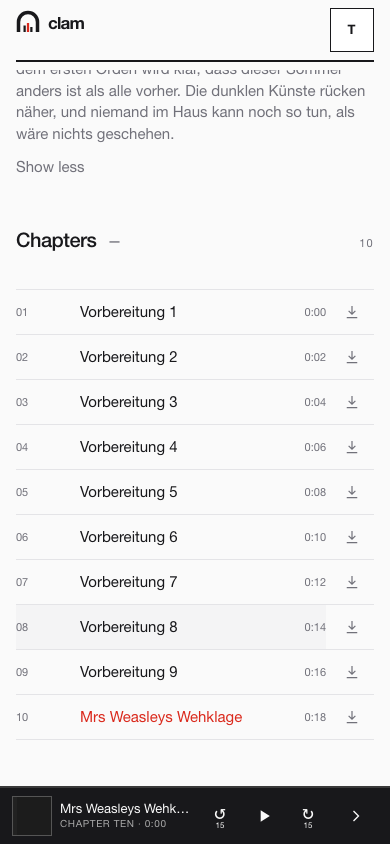
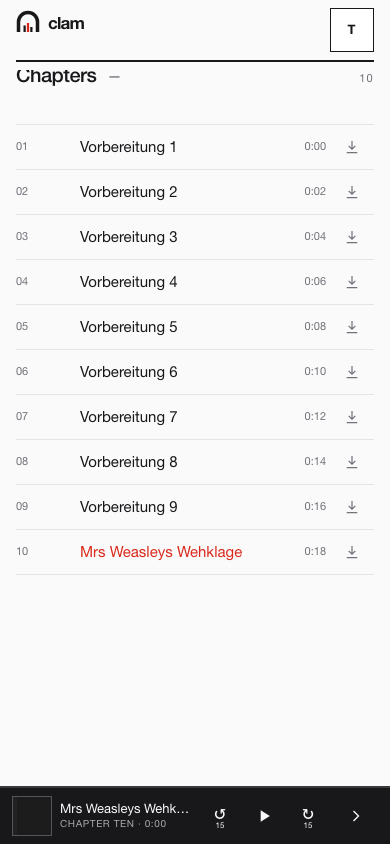
Pin chapters and expand transcript surface

diff --git a/clam-web/src/pages/Play.tsx b/clam-web/src/pages/Play.tsx
@@ -24,7 +24,7 @@ export function Play({ book, search }: PlayProps) {
   const [drag, setDrag] = useState<number | null>(null)
   const seekTimer = useRef<number | null>(null)
   const dialogList = useRef<HTMLDivElement>(null)
-  const currentCue = useRef<HTMLButtonElement>(null)
+  const currentCue = useRef<HTMLParagraphElement>(null)
 
   const chapterParam = Number(search.get('chapter'))
   const autoplay = search.get('autoplay') === '1'
@@ -94,30 +94,32 @@ export function Play({ book, search }: PlayProps) {
 
   return (
     <main className="mx-auto flex min-h-dvh w-full max-w-[calc(34rem+32px)] flex-col px-4 pt-[calc(env(safe-area-inset-top)+8px)] pb-[calc(env(safe-area-inset-bottom)+16px)] max-[680px]:pb-[calc(env(safe-area-inset-bottom)+8px)]">
-      <header className="grid grid-cols-[44px_1fr_44px] items-center gap-2 border-b-2 border-rule pb-2">
+      <header className="flex items-center justify-between gap-4 border-b-2 border-rule pb-2">
         <a className="grid h-11 w-11 place-items-center no-underline" href={`/book/${book.id}`} aria-label="Back to book">
           <BackIcon className="h-[22px] w-[22px]" />
         </a>
-        <button
-          type="button"
-          className={`min-h-11 p-0 text-center text-micro uppercase tracking-[0.12em] ${player.sleep ? 'font-medium text-ink' : 'text-muted'}`}
-          aria-label="Sleep timer"
-          onClick={() => setSleepOpen(true)}
-        >
-          {sleepLabel}
-        </button>
-        <button
-          type="button"
-          className="min-h-11 p-0 text-right text-micro uppercase tracking-[0.08em] text-muted"
-          aria-label={`Playback speed ${speedLabel}`}
-          title="Playback speed"
-          onClick={player.cycleSpeed}
-        >
-          {speedLabel}
-        </button>
+        <div className="flex items-baseline gap-4">
+          <button
+            type="button"
+            className={`min-h-11 p-0 text-micro uppercase tracking-[0.12em] ${player.sleep ? 'font-medium text-ink' : 'text-muted'}`}
+            aria-label="Sleep timer"
+            onClick={() => setSleepOpen(true)}
+          >
+            {sleepLabel}
+          </button>
+          <button
+            type="button"
+            className="min-h-11 p-0 text-micro uppercase tracking-[0.08em] text-muted"
+            aria-label={`Playback speed ${speedLabel}`}
+            title="Playback speed"
+            onClick={player.cycleSpeed}
+          >
+            {speedLabel}
+          </button>
+        </div>
       </header>
 
-      <div className="flex flex-1 flex-col justify-center pt-6">
+      <div className="play-stage relative flex min-h-0 flex-1 flex-col justify-center pt-6">
         <div
           className="relative cursor-pointer"
           role="button"
@@ -135,48 +137,49 @@ export function Play({ book, search }: PlayProps) {
               <Cover book={book} />
             </div>
             <div className="mt-6 text-center">
-              <h1 className={`mt-2 text-[clamp(24px,6.5vw,32px)] font-medium leading-[1.02] tracking-[-0.035em] ${chapter ? 'text-accent' : ''}`}>
+              <h1 className="mt-2 text-[clamp(24px,6.5vw,32px)] font-medium leading-[1.02] tracking-[-0.035em]">
                 {chapter?.title || book.title}
               </h1>
             </div>
           </div>
-          <div
-            className={`absolute inset-0 overflow-y-auto transition-opacity duration-200 ${
-              showDescription ? 'opacity-100' : 'pointer-events-none opacity-0'
-            }`}
-          >
-            {transcript ? (
-              <div onClick={(event) => event.stopPropagation()}>
-                <p className="micro">Transcription · Deutsch</p>
-                <h1 className="mt-2 text-[clamp(20px,5vw,26px)] font-medium leading-[1.06] tracking-[-0.03em]">{chapter?.title || book.title}</h1>
-                <div className="transcript mt-5">
-                  {transcript.cues.map((cue, index) => (
-                    <button
-                      key={`${cue.start}-${index}`}
-                      ref={index === currentCueIndex ? currentCue : undefined}
-                      type="button"
-                      className={`transcript__cue${index === currentCueIndex ? ' is-current' : ''}`}
-                      aria-current={index === currentCueIndex ? 'true' : undefined}
-                      onClick={() => player.seekTo(cue.start)}
-                    >
-                      {cue.text}
-                    </button>
-                  ))}
-                </div>
-              </div>
-            ) : transcriptLoading ? (
-              <p className="micro">Loading transcription…</p>
-            ) : (
-              <>
-                <p className="micro">From the book</p>
-                <h1 className="mt-2 text-[clamp(24px,6.5vw,32px)] font-medium leading-[1.02] tracking-[-0.035em]">{book.title}</h1>
-                <p className="mt-2 text-small text-muted">{book.authors.join(', ') || 'Unknown author'}</p>
-                <p className="mt-4 text-muted">{book.description || 'No description for this book.'}</p>
-                <p className="micro mt-4">Tap to return to the cover</p>
-              </>
-            )}
-          </div>
         </div>
+
+        <div
+          className={`play-text-overlay absolute inset-0 overflow-y-auto bg-paper transition-opacity duration-200 ${
+            showDescription ? 'opacity-100' : 'pointer-events-none opacity-0'
+          }`}
+          onClick={() => setShowDescription(false)}
+        >
+          {transcript ? (
+            <div>
+              <p className="micro">Transcription · Deutsch</p>
+              <h1 className="mt-2 text-[clamp(20px,5vw,26px)] font-medium leading-[1.06] tracking-[-0.03em]">{chapter?.title || book.title}</h1>
+              <div className="transcript mt-5">
+                {transcript.cues.map((cue, index) => (
+                  <p
+                    key={`${cue.start}-${index}`}
+                    ref={index === currentCueIndex ? currentCue : undefined}
+                    className={`transcript__cue${index === currentCueIndex ? ' is-current' : ''}`}
+                    aria-current={index === currentCueIndex ? 'true' : undefined}
+                  >
+                    {cue.text}
+                  </p>
+                ))}
+              </div>
+            </div>
+          ) : transcriptLoading ? (
+            <p className="micro">Loading transcription…</p>
+          ) : (
+            <>
+              <p className="micro">From the book</p>
+              <h1 className="mt-2 text-[clamp(24px,6.5vw,32px)] font-medium leading-[1.02] tracking-[-0.035em]">{book.title}</h1>
+              <p className="mt-2 text-small text-muted">{book.authors.join(', ') || 'Unknown author'}</p>
+              <p className="mt-4 text-muted">{book.description || 'No description for this book.'}</p>
+              <p className="micro mt-4">Tap to return to the cover</p>
+            </>
+          )}
+        </div>
+      </div>
 
         <button
           type="button"
@@ -250,7 +253,6 @@ export function Play({ book, search }: PlayProps) {
             <SeekIcon direction={1} />
           </TransportButton>
         </div>
-      </div>
 
       <Sheet open={chaptersOpen} onClose={() => setChaptersOpen(false)}>
         <header className="dialog-head">

diff --git a/clam-web/src/pages/Book.tsx b/clam-web/src/pages/Book.tsx
@@ -15,7 +15,9 @@ export function Book({ book }: BookProps) {
   const [descriptionOpen, setDescriptionOpen] = useState(false)
   const [descriptionCanExpand, setDescriptionCanExpand] = useState(false)
   const [chaptersOpen, setChaptersOpen] = useState(false)
-  const description = useRef<HTMLButtonElement>(null)
+  const description = useRef<HTMLDivElement>(null)
+  const chapterHeader = useRef<HTMLDivElement>(null)
+  const chapterList = useRef<HTMLOListElement>(null)
   const chapterAnchor = useRef<HTMLLIElement>(null)
 
   useEffect(() => {
@@ -50,7 +52,16 @@ export function Book({ book }: BookProps) {
   useEffect(() => {
     if (!chaptersOpen) return
     const frame = window.requestAnimationFrame(() => {
-      chapterAnchor.current?.scrollIntoView({ block: 'start' })
+      const header = chapterHeader.current
+      if (header) {
+        const top = header.getBoundingClientRect().top + window.scrollY - 64
+        window.scrollTo({ top: Math.max(0, top), behavior: 'auto' })
+      }
+      const list = chapterList.current
+      const row = chapterAnchor.current
+      if (!list || !row) return
+      const top = row.getBoundingClientRect().top - list.getBoundingClientRect().top + list.scrollTop
+      list.scrollTop = Math.max(0, top - 8)
     })
     return () => window.cancelAnimationFrame(frame)
   }, [chaptersOpen, currentIndex, book.id])
@@ -76,17 +87,24 @@ export function Book({ book }: BookProps) {
           </p>
           {book.description ? (
             <div className="book-description mt-6">
-              <button
+              <div
                 ref={description}
-                type="button"
+                role={descriptionCanExpand ? 'button' : undefined}
+                tabIndex={descriptionCanExpand ? 0 : undefined}
                 className={`book-description__text${descriptionOpen ? '' : ' is-clamped'}`}
                 aria-expanded={descriptionCanExpand ? descriptionOpen : undefined}
                 onClick={() => {
                   if (descriptionCanExpand) setDescriptionOpen((value) => !value)
                 }}
+                onKeyDown={(event) => {
+                  if (!descriptionCanExpand) return
+                  if (event.key !== 'Enter' && event.key !== ' ') return
+                  event.preventDefault()
+                  setDescriptionOpen((value) => !value)
+                }}
               >
                 {book.description}
-              </button>
+              </div>
               {descriptionCanExpand ? (
                 <button
                   type="button"
@@ -100,8 +118,8 @@ export function Book({ book }: BookProps) {
             </div>
           ) : null}
 
-          <section className="mt-10">
-            <div className="flex items-baseline justify-between gap-4 pb-4">
+          <section className={`book-chapters mt-10${chaptersOpen ? ' is-open' : ''}`}>
+            <div ref={chapterHeader} className="book-chapters__head flex items-baseline justify-between gap-4 pb-4">
               <button
                 type="button"
                 className="chapter-toggle flex min-h-11 items-baseline gap-3 text-left"
@@ -117,7 +135,7 @@ export function Book({ book }: BookProps) {
               <p className="micro">{book.chapters.length || 0}</p>
             </div>
             {book.chapters.length ? (
-              <ol id="book-chapter-list" className="border-t border-hair">
+              <ol ref={chapterList} id="book-chapter-list" className="book-chapters__list border-t border-hair">
                 {chapterIndices.map((index) => {
                   const chapter = book.chapters[index]
                   const isCurrent = currentIndex === index

diff --git a/clam-web/src/styles.css b/clam-web/src/styles.css
@@ -748,3 +748,33 @@
   #book-chapter-list > li {
     scroll-margin-top: 88px;
   }
+
+  .book-chapters__head {
+    scroll-margin-top: 88px;
+  }
+
+  .book-chapters.is-open .book-chapters__head {
+    position: sticky;
+    top: calc(env(safe-area-inset-top) + 56px);
+    z-index: 7;
+    background: var(--paper);
+  }
+
+  .book-chapters.is-open .book-chapters__list {
+    max-height: calc(100dvh - 190px);
+    overflow-y: auto;
+    overscroll-behavior: contain;
+  }
+
+  .play-text-overlay {
+    padding: 8px 0 24px;
+    z-index: 2;
+  }
+
+  .transcript__cue {
+    margin: 0;
+  }
+
+  .book-chapters.is-open {
+    padding-bottom: 45dvh;
+  }
